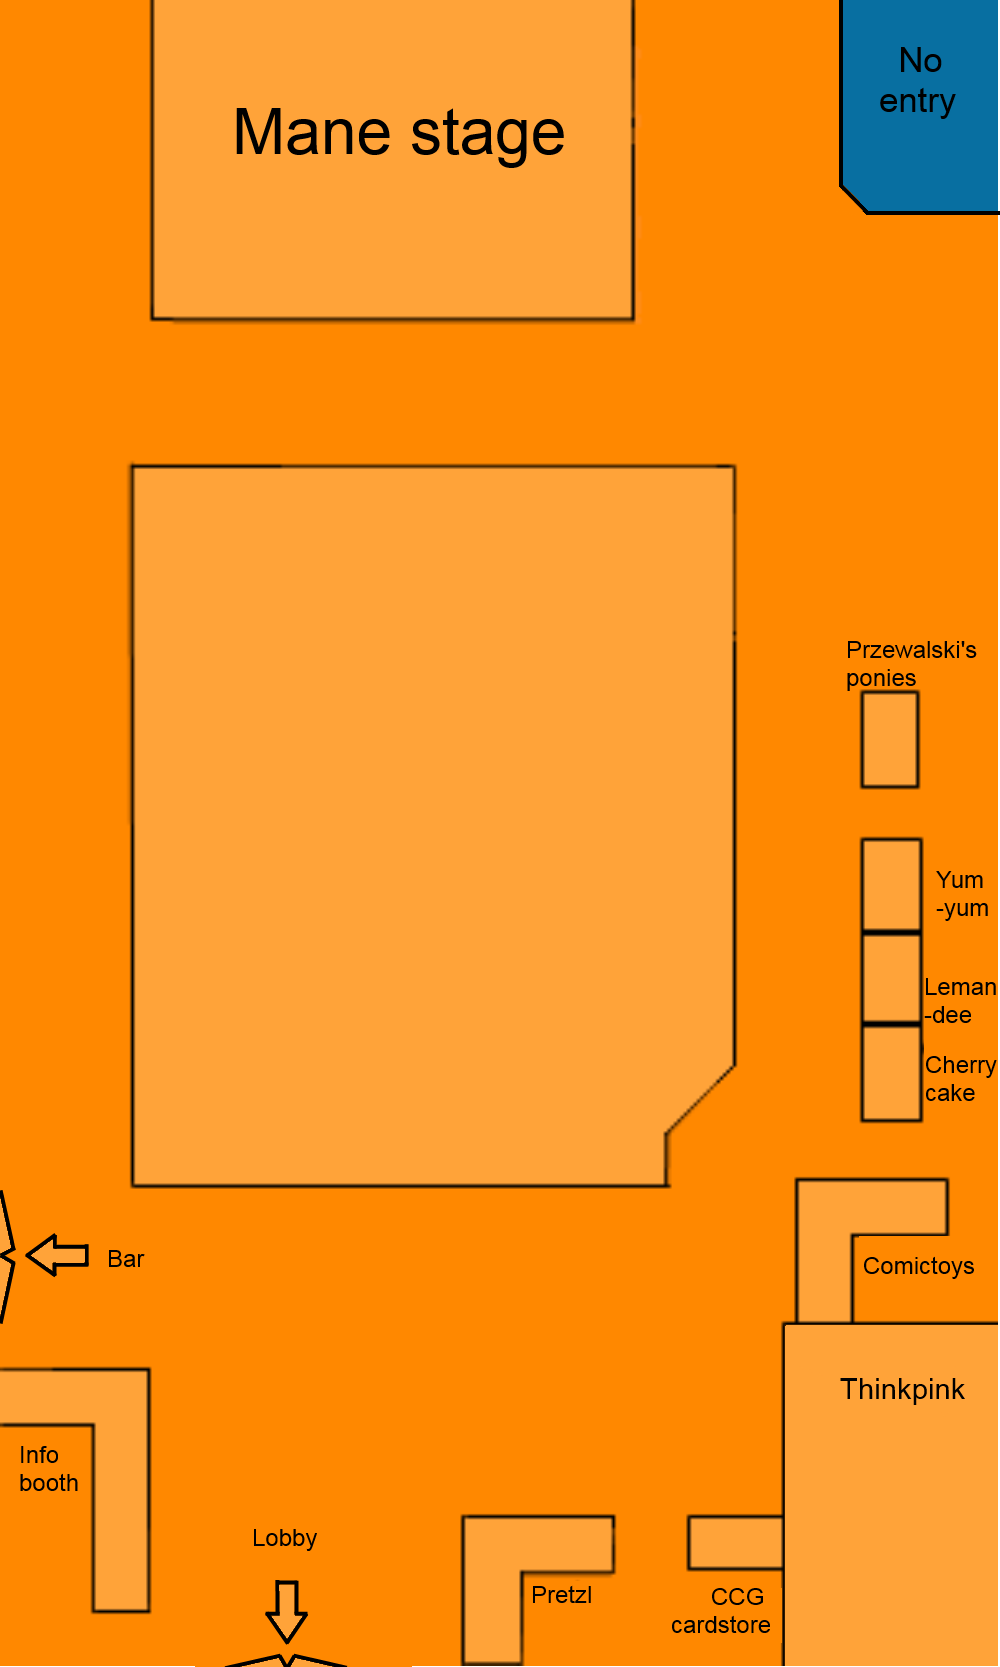
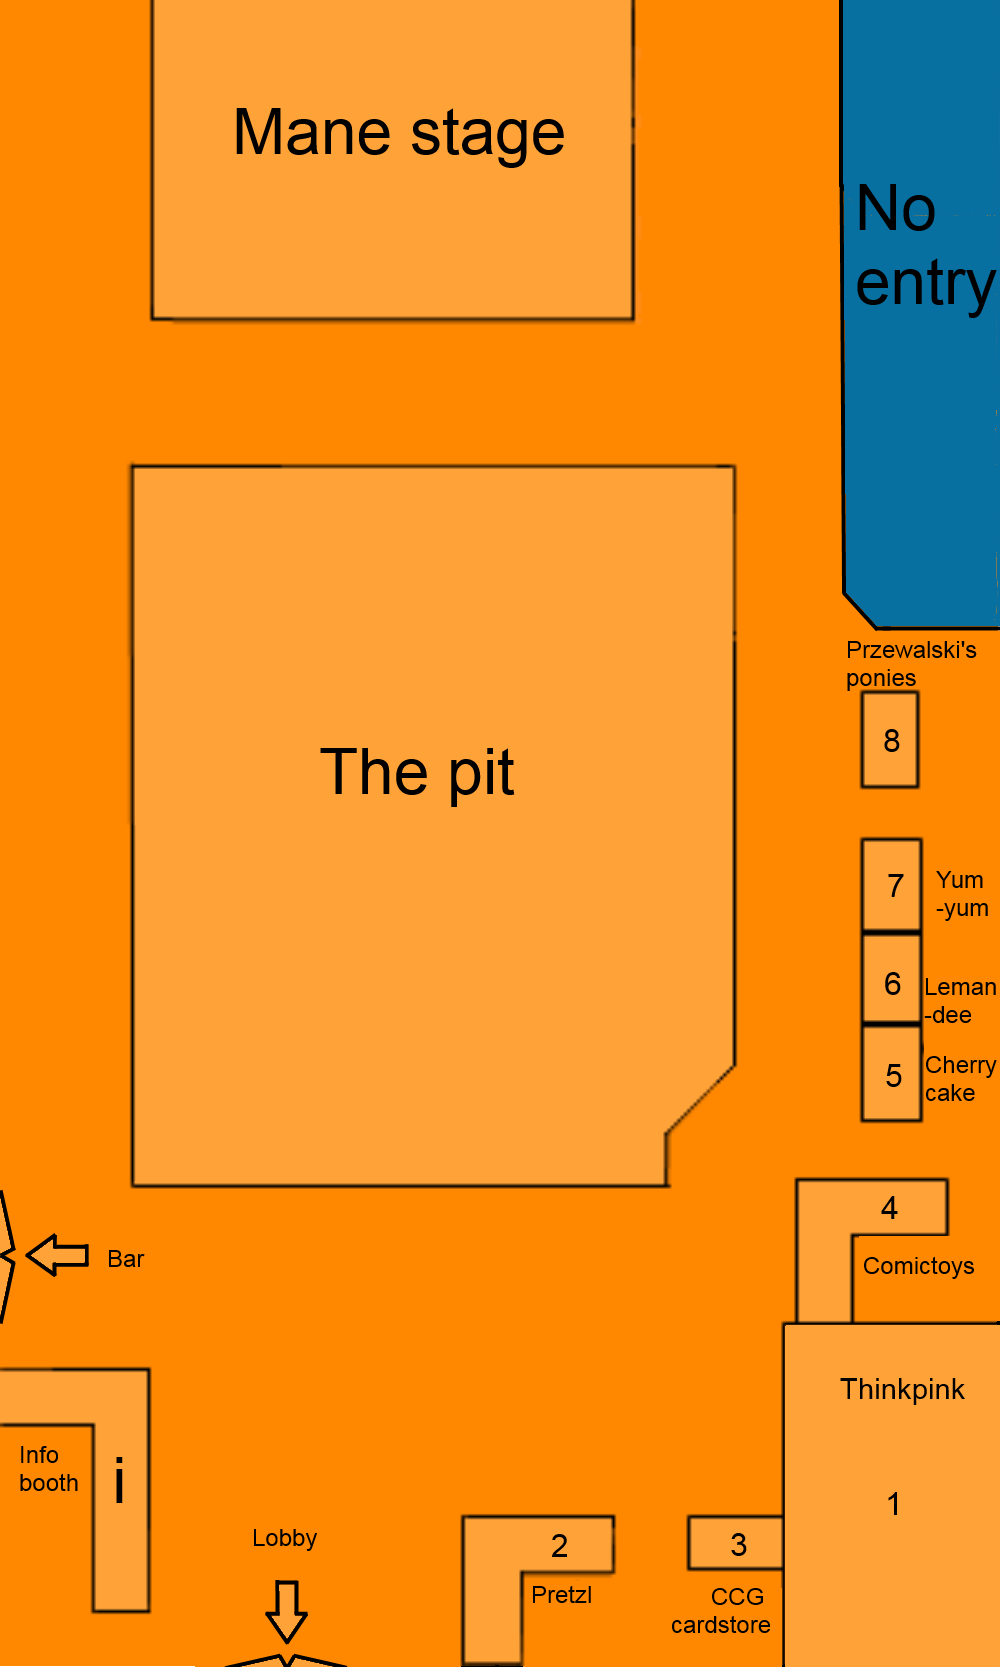
updated map images, cleanup map stuff

diff --git a/app/src/main/assets/map.html b/app/src/main/assets/map.html
@@ -2,17 +2,18 @@
 <head>
     <title>HWcon App Map</title>
     <!-- The magic meta tag //-->
-    <meta name="viewport" content="width=device-width, initial-scale=1">
+    <meta name="viewport" content="width=device-width">
+    <!-- <link rel="stylesheet" href="map.css" type="text/css" /> //-->
 </head>
-<body style="font-size: large; font-family:sans-serif">
+<body style="font-size: x-large; font-family: sans-serif">
 
 Map of the HWcon venue.<br />
 Please select a floor.<br />
 <br/>
 <a href="map0_MT.html">Ground Floor</a>
 <br /><br />
-<a href="map1_MT.html">2nd Floor</a>
+<a href="map1_MT.html">First Floor</a>
 <br /><br />
-<a href="map2.html">Attic</a>
+<a href="map2_MT.html">Attic</a>
 </body>
 </html>

diff --git a/app/src/main/assets/map1_MT.html b/app/src/main/assets/map1_MT.html
@@ -2,9 +2,10 @@
 <head>
     <title>HWcon App Map</title>
     <meta name="viewport" content="width=device-width">
+    <link rel="stylesheet" type="text/css" href="map.css" />        
 </head>
-<body bgcolor="#DD6600">
+<body>
 
-<img src="map1f_MT.png" style="margin: 5px" alt="Map image" />
+<img src="map1f_MT.png" alt="Map image" />
 </body>
 </html>

diff --git a/app/src/main/assets/map2_MT.html b/app/src/main/assets/map2_MT.html
@@ -1,10 +1,11 @@
 <html>
 <head>
     <title>HWcon App Map</title>
+    <link rel="stylesheet" type="text/css" href="map.css"/>
     <meta name="viewport" content="width=device-width">
 </head>
-<body bgcolor="#DD6600">
+<body>
 
-<img src="mapgf.png" style="margin: 5px" alt="Map image"/>
+<img src="map2f_MT.png" alt="Map image"/>
 </body>
 </html>

diff --git a/app/src/main/assets/map0_MT.html b/app/src/main/assets/map0_MT.html
@@ -2,9 +2,10 @@
 <head>
     <title>HWcon App Map</title>
     <meta name="viewport" content="width=device-width">
+    <link rel="stylesheet" href="map.css" type="text/css" />
 </head>
-<body bgcolor="#DD6600">
+<body>
 
-<img src="mapgf_MT.png" style="margin: 5px" alt="Map image"/>
+<img src="mapgf_MT.png" alt="Map image"/>
 </body>
 </html>

diff --git a/app/src/main/assets/map.css b/app/src/main/assets/map.css
@@ -1,0 +1,8 @@
+body
+{
+background-color: #DD6600;
+}
+
+img {
+margin 5px;
+}
